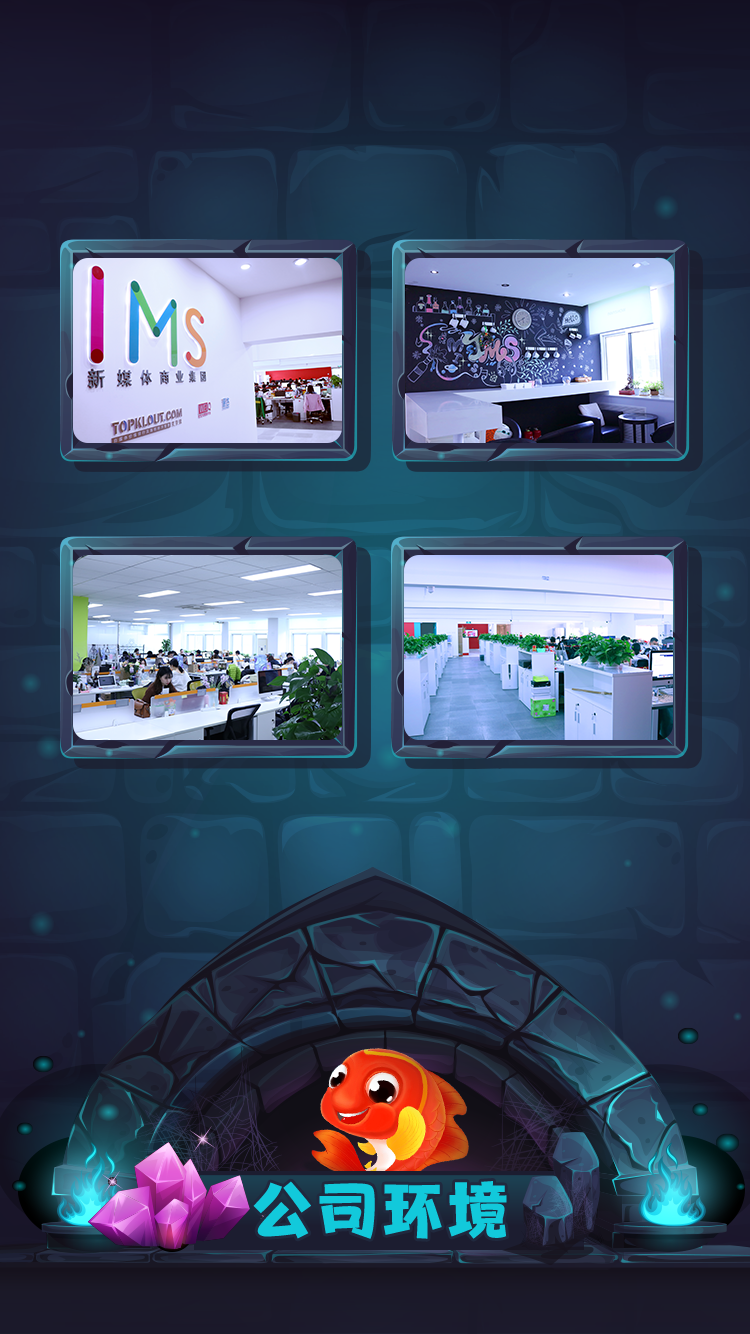
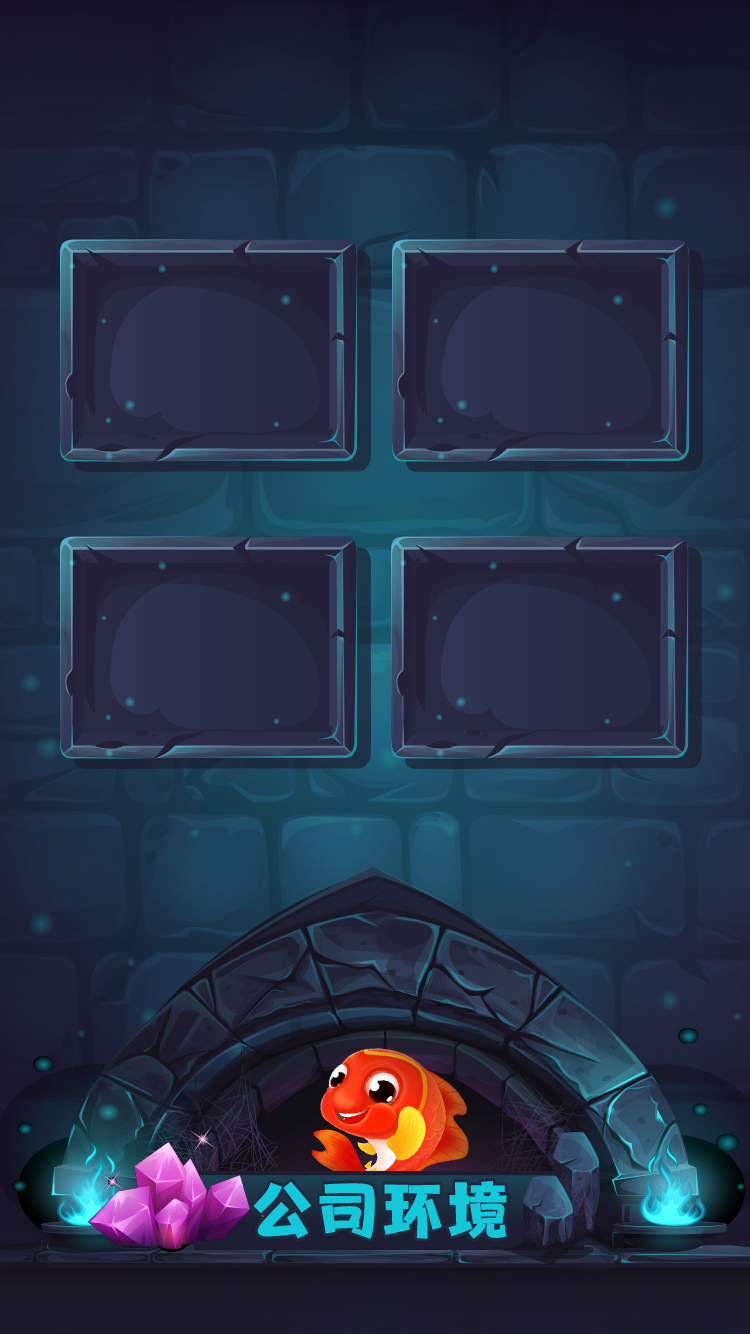
debug

diff --git a/index.html b/index.html
@@ -21,7 +21,7 @@
 </head>
 <body>
 	<span class="musicIcon"></span>
-	<audio src="media/music.mp3" id="music" autoplay loop="loop"></audio>
+	<!--<audio src="media/music.mp3" id="music" autoplay loop="loop"></audio>-->
 
 	<!-- fullpage -->
  	<div id="fullpage">
@@ -85,19 +85,18 @@
 			</div>
 			<span class="arrow"></span>
  		</div>
-		<div class="section section5" style="background: url('images/pic-5.png') no-repeat top center / 100% auto;">
+		<div class="section section5">
 			<div class="logo">
 				<img src="images/logo.png" class="logo" alt="">
  			</div>
 			<div class="section-contain firstpage">
 				<div class="contain">
 					<div class="pic5 zoomify">
-						<img src="images/pic-5-1.png" alt="">
-						<img src="images/pic-5-2.png" alt="" class="pic5-right">
-						<img src="images/pic-5-3.png" alt="" class="pic5-bottom">
-						<img src="images/pic-5-4.png" alt="" class="pic5-right pic5-bottom">
+						<div><p><img src="images/pic-5-1.jpg" alt=""></p></div>
+						<div class="pic5-right"><p><img src="images/pic-5-2.jpg" alt=""></p></div>
+						<div class="pic5-bottom"><p><img src="images/pic-5-3.jpg" alt=""></p></div>
+						<div class="pic5-right pic5-bottom"><p><img src="images/pic-5-4.jpg" alt=""></p></div>
 					</div>
-					<!-- <img src="images/pic-5.png" alt=""> -->
 				</div>
 			</div>
 			<span class="arrow"></span>
@@ -108,7 +107,14 @@
  			</div>
 			<div class="section-contain firstpage">
 				<div class="contain">
-					<img src="images/pic-6.png" alt="">
+					<div class="pic6 zoomify">
+						<div><p><img src="images/pic-6-1.jpg" alt=""></p></div>
+						<div class="pic5-right"><p><img src="images/pic-6-2.jpg" alt=""></p></div>
+						<div class="pic6-bottom"><p><img src="images/pic-6-3.jpg" alt=""></p></div>
+						<div class="pic6-bottom pic5-right"><p><img src="images/pic-6-4.jpg" alt=""></p></div>
+						<div class="pic6-bottom"><p><img src="images/pic-6-5.jpg" alt=""></p></div>
+						<div class="pic6-bottom pic5-right"><p><img src="images/pic-6-6.jpg" alt=""></p></div>
+					</div>
 				</div>
 			</div>
 			<span class="arrow"></span>
@@ -151,7 +157,7 @@
 	<script src="js/zoomify.min.js"></script>
 	<script src="http://res.wx.qq.com/open/js/jweixin-1.0.0.js"></script>
 	<script type="text/javascript">
-	function autoPlayAudio1() {
+	function autoPlayAudio() {
 		 wx.config({
 				 debug: false,
 				 appId: '',

diff --git a/css/index.css b/css/index.css
@@ -34,6 +34,12 @@ a {
 img {
   width: 100%;
 }
+.section5 {
+  background: url('../images/pic-5.png') no-repeat top center / 100% auto;
+}
+.section6 {
+  background: url('../images/pic-6.png') no-repeat top center / 100% auto;
+}
 .pic {
   display: none;
   background: url('../images/pic1.png') no-repeat top center / 100% auto;
@@ -59,17 +65,33 @@ img {
 }
 .pic5 {
   padding-left: 0.96rem;
-  padding-top: 3.413rem;
+  padding-top: 3.46rem;
 }
-.pic5 img{
+.pic6 {
+  padding-left: 0.99rem;
+  padding-top: 2.37rem;
+}
+.pic5 div,.pic6 div{
+  display: inline-block;
+}
+.pic5 p,.pic6 p {
+  width: 3.6266rem;
+  height: 2.48rem;
+}
+.pic5 img,.pic6 img{
   width: 3.6266rem;
   height: auto;
+  border-radius: 0.28rem;
 }
 .pic5-right {
   margin-left: 0.51rem;
 }
 .pic5-bottom {
   margin-top: 1.28rem;
+}
+.pic6-bottom {
+  margin-top: 0.88rem;
+
 }
 /* .zoomify img{
   width: 100%;

diff --git a/js/index.js b/js/index.js
@@ -1,6 +1,9 @@
 $(function(){
 
-	$('.zoomify img').zoomify();
+	$('.zoomify img').zoomify({
+		"duration":300,
+		"easing":"linear"
+	});
 
 
 	var drugfalg = true;//限制滑动
